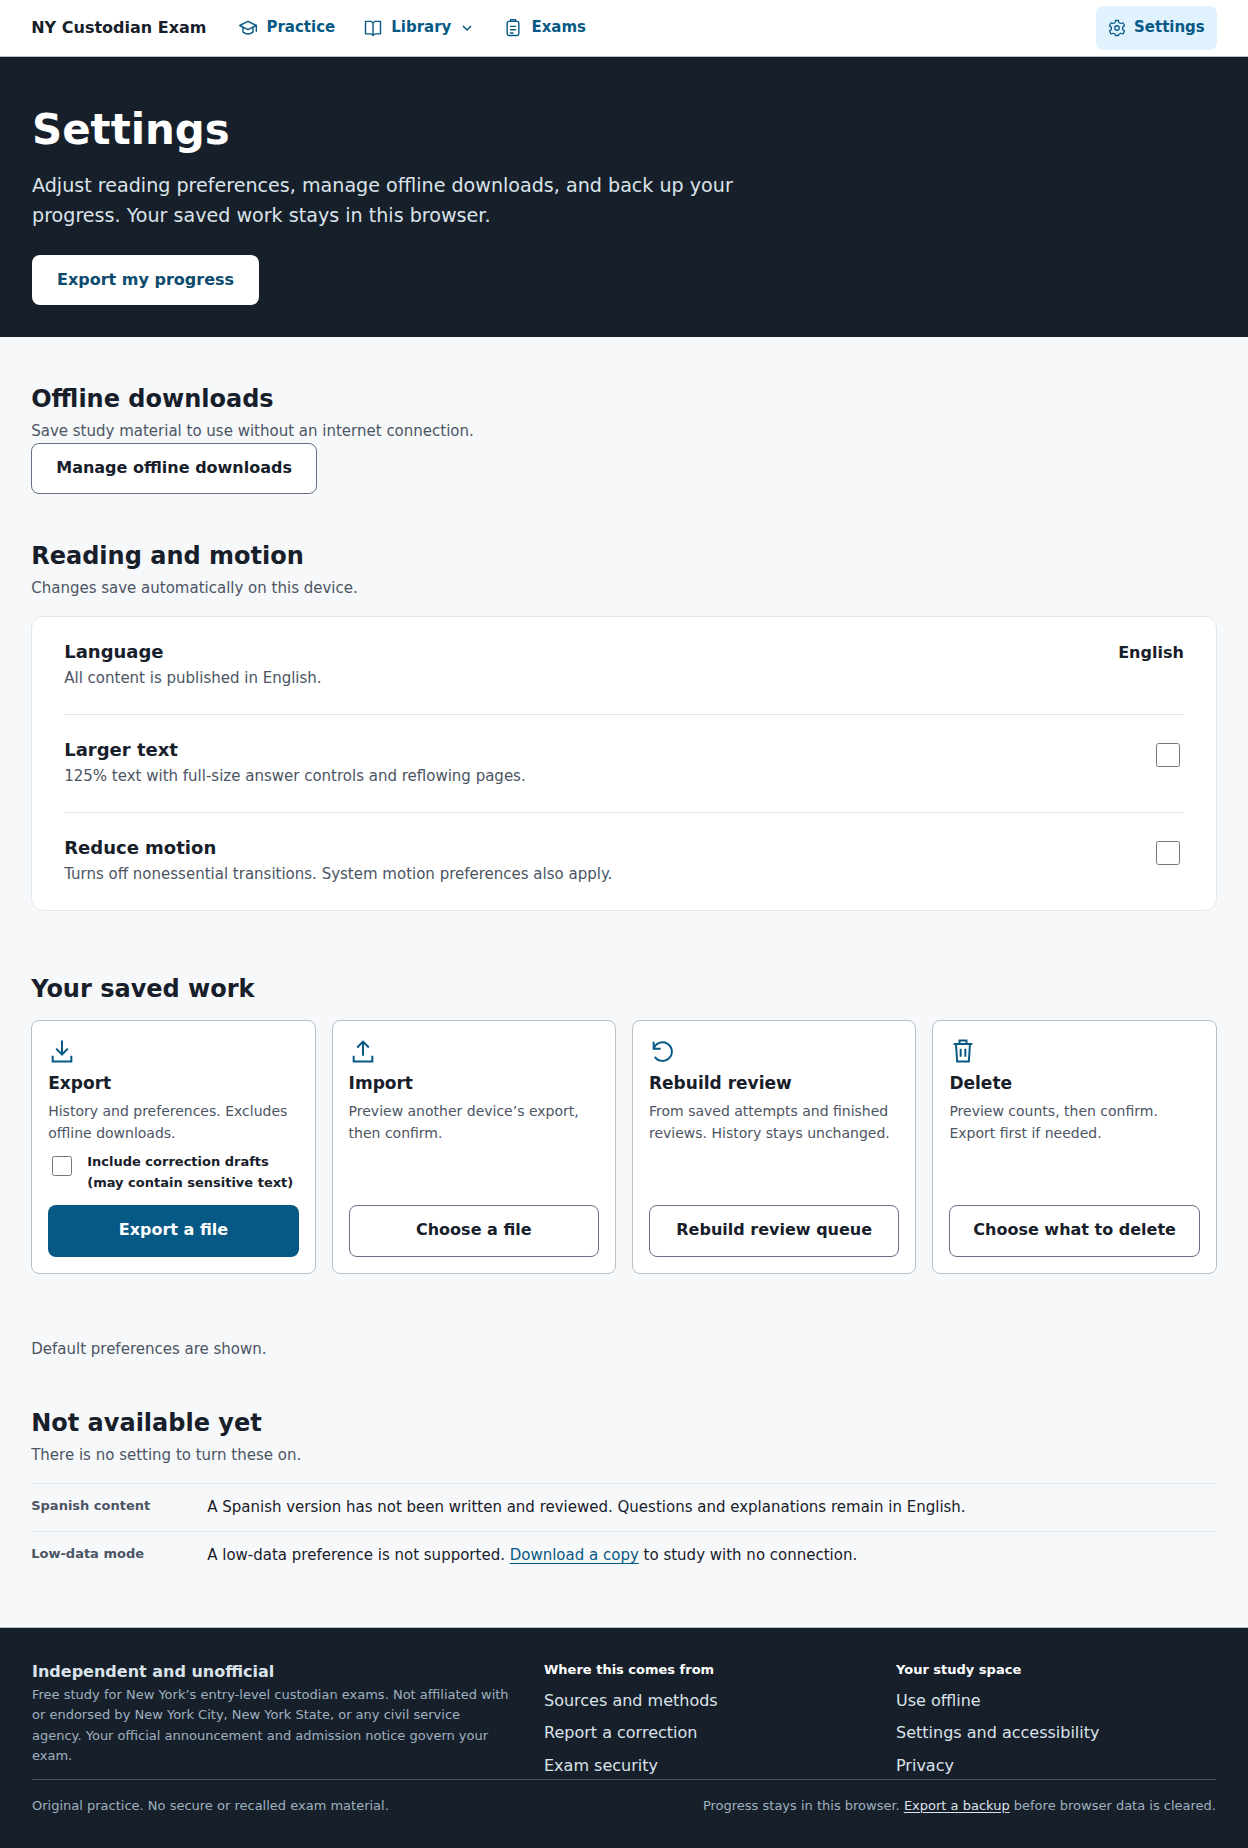
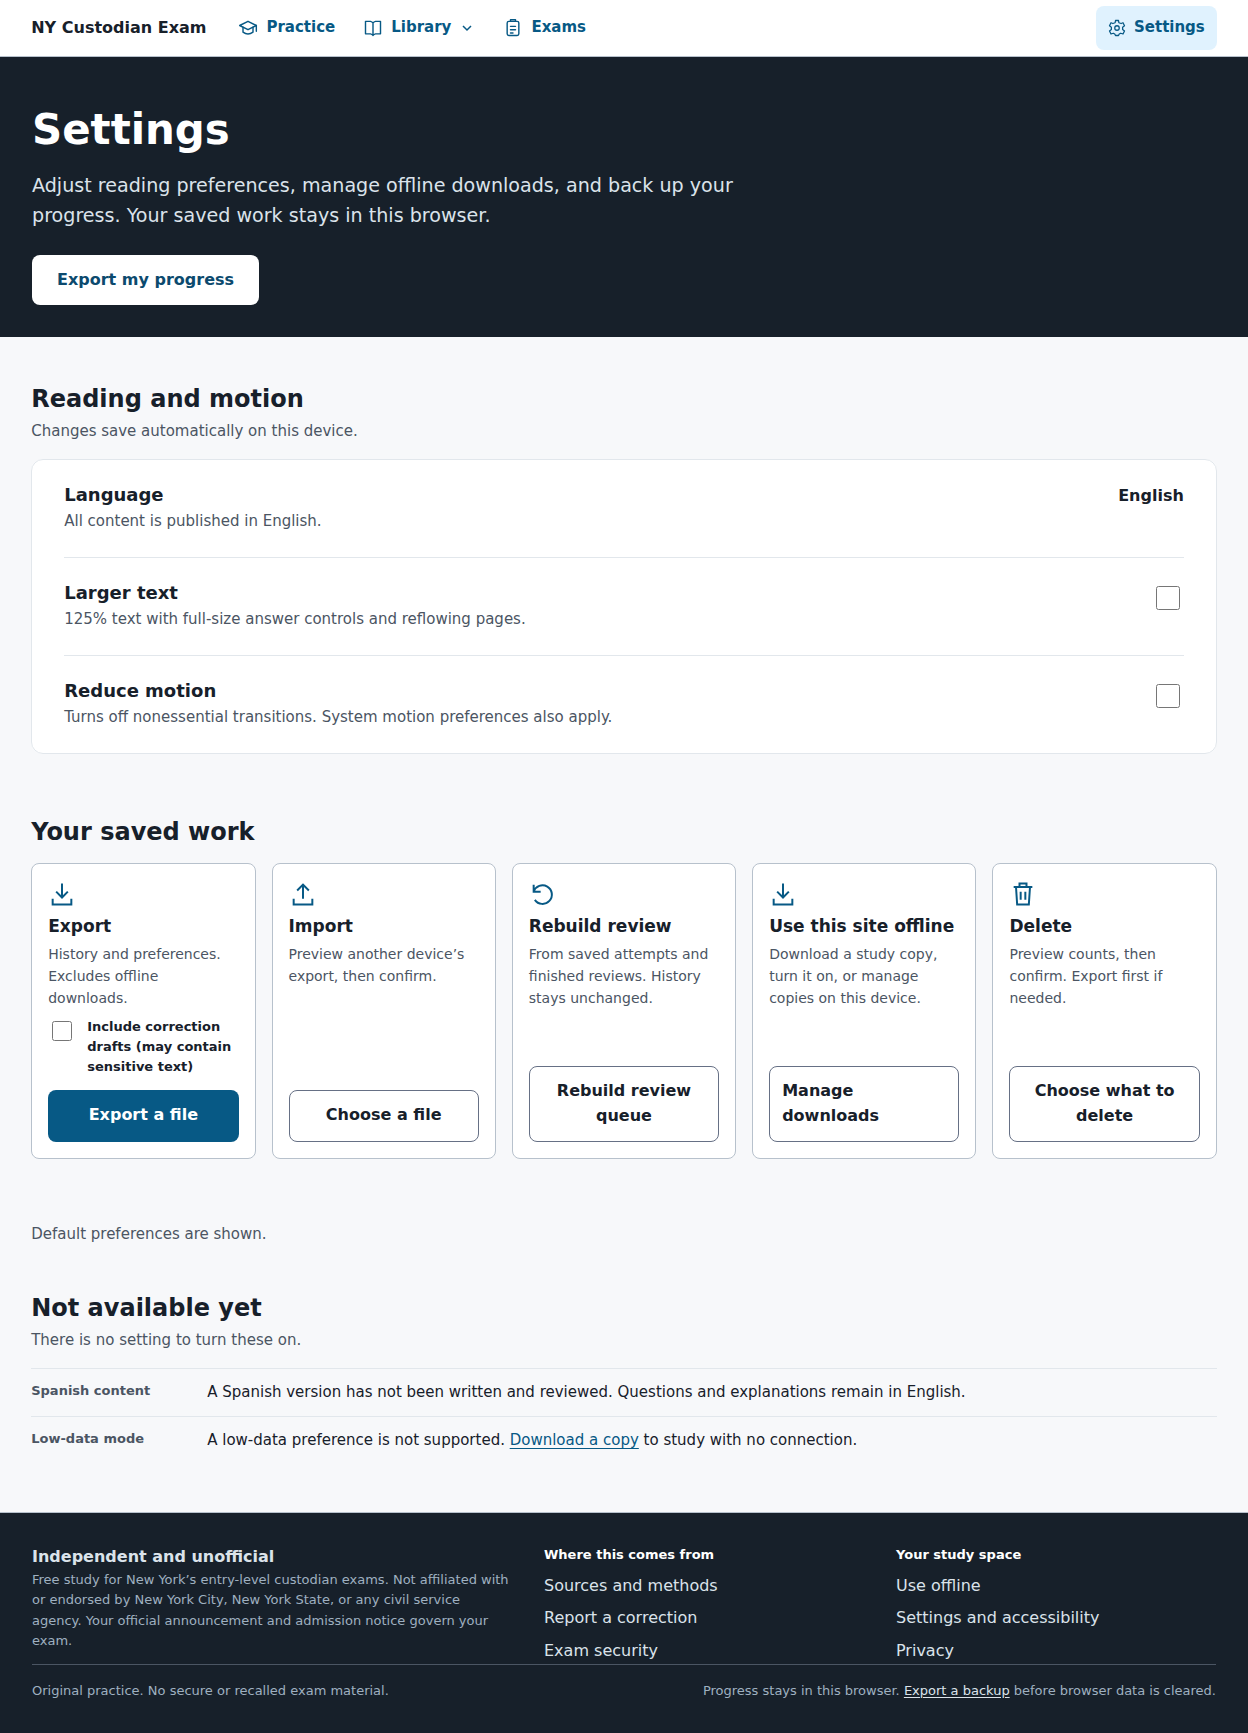
Group Offline management with Settings data actions

diff --git a/apps/site/src/settings/react/settings.tsx b/apps/site/src/settings/react/settings.tsx
@@ -47,16 +47,19 @@ type ReviewRebuildState =
 
 type DisplayPreference = "largeText" | "reduceMotion"
 
-interface SettingsTaskCard {
+type SettingsTaskCard = {
   readonly id?: string
   readonly title: string
   readonly description: string
   readonly icon: string
   readonly label: string
+} & ({
+  readonly href: string
+} | {
   readonly run: () => void | Promise<void>
   readonly expanded?: boolean
   readonly controls?: string
-}
+})
 
 interface SettingsEffectRunner {
   readonly runPromise: <A, E>(
@@ -434,6 +437,11 @@ export const SettingsIsland = ({
               label: reviewRebuild.tag === "pending" ? "Rebuilding review queue…" : "Rebuild review queue", run: rebuildReviewQueue
             },
             {
+              title: "Use this site offline",
+              description: "Download a study copy, turn it on, or manage copies on this device.",
+              icon: "export", label: "Manage downloads", href: "/offline/"
+            },
+            {
               title: "Delete",
               description: "Preview counts, then confirm. Export first if needed.",
               icon: "delete", label: "Choose what to delete", run: () => setDataAction("delete"),
@@ -441,7 +449,9 @@ export const SettingsIsland = ({
             }
           ].map((task: SettingsTaskCard) => {
             const exporting = task.id === "export-local-data"
-            const action = <button className={exporting ? "button button-primary" : "button button-secondary"} type="button" disabled={busy || preferenceRead === "loading"}
+            const action = "href" in task
+              ? <a className="button button-secondary" href={task.href}>{task.label}</a>
+              : <button className={exporting ? "button button-primary" : "button button-secondary"} type="button" disabled={busy || preferenceRead === "loading"}
               aria-expanded={task.expanded} aria-controls={task.controls} onClick={task.run}>{task.label}</button>
             return <li id={task.id} className="task-card" aria-labelledby={exporting ? "export-heading" : undefined} key={task.title}>
               <svg aria-hidden="true" viewBox="0 0 24 24" fill="none" stroke="currentColor" strokeWidth="1.7"><use href={`#settings-icon-${task.icon}`} /></svg>

diff --git a/apps/site/scripts/generate-pages.tsx b/apps/site/scripts/generate-pages.tsx
@@ -1789,7 +1789,7 @@ const buildPages = ({
         <symbol id="settings-icon-rebuild" viewBox="0 0 24 24"><path d="M4 10a8 8 0 1 1 1 7M4 4v6h6"/></symbol>
         <symbol id="settings-icon-delete" viewBox="0 0 24 24"><path d="M4 6h16M9 6V3h6v3M6 6l1 15h10l1-15M10 10v7m4-7v7"/></symbol>
       </defs></svg>
-      <section class="settings-downloads" aria-labelledby="settings-downloads-heading"><div class="section-header"><h2 id="settings-downloads-heading">Offline downloads</h2><p>Save study material to use without an internet connection.</p></div><a class="button button-secondary" href="/offline/">Manage offline downloads</a></section>
+      <noscript><p><a href="/offline/">Manage offline downloads</a></p></noscript>
       <div data-settings data-island="settings"><p>JavaScript and browser storage are required to open local settings. Nothing changes while this view loads.</p></div>
       <section class="settings-unavailable" aria-labelledby="settings-unavailable-heading">
         <div class="section-header"><h2 id="settings-unavailable-heading">Not available yet</h2><p>There is no setting to turn these on.</p></div>

diff --git a/apps/site/settings/index.html b/apps/site/settings/index.html
@@ -50,7 +50,7 @@
         <symbol id="settings-icon-rebuild" viewBox="0 0 24 24"><path d="M4 10a8 8 0 1 1 1 7M4 4v6h6"/></symbol>
         <symbol id="settings-icon-delete" viewBox="0 0 24 24"><path d="M4 6h16M9 6V3h6v3M6 6l1 15h10l1-15M10 10v7m4-7v7"/></symbol>
       </defs></svg>
-      <section class="settings-downloads" aria-labelledby="settings-downloads-heading"><div class="section-header"><h2 id="settings-downloads-heading">Offline downloads</h2><p>Save study material to use without an internet connection.</p></div><a class="button button-secondary" href="/offline/">Manage offline downloads</a></section>
+      <noscript><p><a href="/offline/">Manage offline downloads</a></p></noscript>
       <div data-settings data-island="settings"><p>JavaScript and browser storage are required to open local settings. Nothing changes while this view loads.</p></div>
       <section class="settings-unavailable" aria-labelledby="settings-unavailable-heading">
         <div class="section-header"><h2 id="settings-unavailable-heading">Not available yet</h2><p>There is no setting to turn these on.</p></div>

diff --git a/apps/site/src/design-system.css b/apps/site/src/design-system.css
@@ -779,7 +779,7 @@
   .preference-row input { inline-size: 1.5rem; block-size: 1.5rem; margin: var(--space-1); accent-color: var(--color-action); cursor: pointer; }
   .preference-row .preference-status { font-size: var(--text-xs); }
   .preference-status:empty { display: none; }
-  .task-cards.settings-task-cards { grid-template-columns: repeat(4, minmax(0, 1fr)); }
+  .task-cards.settings-task-cards { grid-template-columns: repeat(5, minmax(0, 1fr)); }
   .settings-task-cards .task-card { grid-template-rows: auto auto minmax(0, 1fr) auto; }
   .settings-task-cards .button { inline-size: 100%; padding-inline: var(--space-3); }
   .settings-card-action { display: grid; gap: var(--space-3); }

diff --git a/design-review/2026-09-07/IMPLEMENTATION-STATUS.md b/design-review/2026-09-07/IMPLEMENTATION-STATUS.md
@@ -14,7 +14,7 @@ The active task is the complete handoff in `/mnt/models/dev/nycustodianexam/IMPL
 | Hazard player | HAZARD-PLAYER-REVIEW.md: responsive workspace, header/save panel, nine real-state captures and nine regression tests | Visual/keyboard layout, integrated retained-image overlay, correction/safe groups and compact recovery captured; final cross-browser and matching-width visual audit remain |
 | Simulation player/results | SIMULATION-NAVIGATOR-REVIEW.md: navigator/confirmation layout, cancel focus, desktop/compact captures; 8 regression tests | Full player, timer and results visual reconciliation |
 | Print configuration | Ten products and effective controls; reviewed document scope | PRINT-OUTPUT-REVIEW.md: actual Letter/A4 question PDFs and searchable-text fix; remaining preview comparison, large-print/illustration pagination and failure/stale captures |
-| Exams / Settings / Offline / report | UTILITY-PAGES-REVIEW.md: first-visit desktop/compact captures, Settings action layout and recovery checks | Returning summaries, dialogs, Offline states, Exams record and report comparison remain |
+| Exams / Settings / Offline / report | UTILITY-PAGES-REVIEW.md: first-visit desktop/compact captures, Settings action layout/Offline grouping and recovery checks | Returning summaries, dialogs, Offline states, Exams record and report comparison remain |
 | Final validation/publication | First-slice local commit; next slice in progress | Full relevant checks, evidence index, clean local commits, reviewable publication; never merge/deploy automatically |
 
 Important discovered content difference: simulation metadata has 30 cleaning, 37 maintenance, 5 safety, and 18 mixed/scenario questions, not the prototype's 34/26/30. Preserve real classification and counts. Internal session/profile/version references remain required; global exam selection is removed.

diff --git a/design-review/2026-09-07/UTILITY-PAGES-REVIEW.md b/design-review/2026-09-07/UTILITY-PAGES-REVIEW.md
@@ -7,3 +7,9 @@ The Settings mobile task cards had put actions beside the descriptions, squeezin
 Production build/artifact invariants and all three utility recovery tests pass: preference-record recovery, failed reload after import, and stale removal-preview invalidation.
 
 Remaining: returning Settings summary and Offline placement; export/delete dialog visual comparison; installed/removal/unavailable Offline captures; open Exams record comparison; report layout; final cross-browser checks. This is an initial utility-family pass, not full reconciliation.
+
+## Settings action grouping
+
+Offline management now sits with Export, Import, Rebuild and Delete in the saved-work group, as the accepted reference shows. Its action is a native link, represented separately from command buttons in the task-card type. Desktop uses five columns; existing intermediate/compact breakpoints retain readable stacking. The obsolete standalone block above reading preferences is replaced by a no-JavaScript link to `/offline/`. No download size or stored-copy count is invented.
+
+Build/artifact checks and five workspace typechecks pass. Eighteen design/recovery checks passed in the combined run; the no-JavaScript check then passed separately after correcting an accidental test-label edit (the final test is unchanged). Desktop/mobile captures are refreshed. Returning saved-data summaries are still outstanding.
